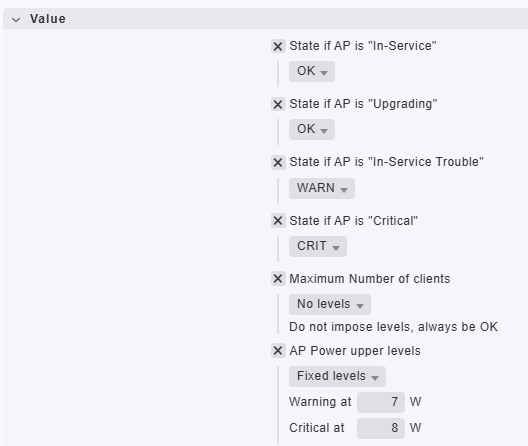
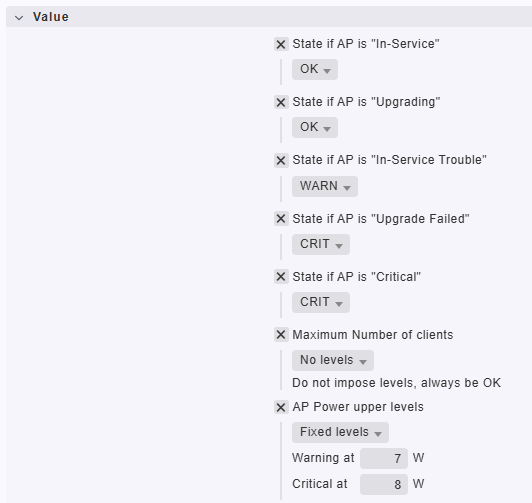
Update package netextreme_xiq_controller. See CHANGELOG for details.

diff --git a/netextreme_xiq_controller/source/cmk_addons/plugins/netextreme/agent_based/netextreme_xiq_controller_ap.py b/netextreme_xiq_controller/source/cmk_addons/plugins/netextreme/agent_based/netextreme_xiq_controller_ap.py
@@ -1,7 +1,7 @@
 #!/usr/bin/env python3
 #
 # Author : Alexander Vogel (alexander.vogel.2305@gmail.com)
-# Date   : 2025-11-28
+# Date   : 2026-04-16
 # License: GNU General Public License v2
 #
 # Check: ExtremeCloud IQ Controller - Access Points
@@ -10,23 +10,26 @@
 # <<<netextreme_xiq_controller_ap:sep(0)>>>
 # [
 #     {
-#         'name': 'Haus A 404', 
-#         'power': 0.0, 
-#         'uptime': 10300892, 
-#         'radio1_clients': 1, 
-#         'radio2_clients': 0, 
-#         'clients': 1, 
+#         'name': 'AP 044', 
+#         'power': 5.663, 
+#         'uptime': 15728467, 
+#         'clients': 23, 
+#         'ipAddress': '192.168.1.1', 
+#         'hardwareType': 'AP4000-WW', 
+#         'serialNumber': '0400Serial123', 
+#         'softwareVersion': '10.15.1.0-038R', 
+#         'macAddress': 'AA:BB:CC:DD:EE:FF', 
+#         'description': 'Secret Description', 
 #         'status': 'InService'
-#     }, 
-#     {...}
+#     },
+#     {...},
 # ]
 
 
 import ast
 import itertools
 
-from cmk.agent_based.v2 import AgentSection, check_levels, CheckPlugin, get_rate, get_value_store, Metric, Service, State, render, Result
-from datetime import datetime, timezone
+from cmk.agent_based.v2 import AgentSection, check_levels, CheckPlugin, Service, State, render, Result
 
 
 def parse_netextreme_xiq_controller_ap(string_table):
@@ -54,25 +57,45 @@ def check_netextreme_xiq_controller_ap(item, params, section):
         "InService": "In-Service",
         "InServiceTrouble": "In-Service Trouble",
         "Unknown": "Unknown",
+        "UpgradeFailed": "Upgrade Failed",
         "Upgrading": "Upgrading",
+    }
+    
+    map_inv_keys = {
+        "ipAddress": "IP Address", 
+        "hardwareType": "Model", 
+        "serialNumber": "Serial Number", 
+        "softwareVersion": "Version", 
+        "macAddress": "MAC Address", 
+        "description": "Description"
     }
 
     for ap in section:
 
         if f"{ap['name']}" != item:
             continue
+        
+        inv_data = ""
+        for key in map_inv_keys:
+            if ap.get(key, "") != "":
+                inv_data += f"\n{map_inv_keys[key]}: {ap[key]}"
+            
+        if len(inv_data) > 0:
+            inv_data = "AP Info:" + inv_data
 
-        # status: InServce, Upgrading, Unknown, critical
+        # status: InServce, Upgrading, UpgradeFailed, Unknown, critical
         if ap['status'] == 'InService':
             yield Result(state=State(params["state_ap_inservice"]), summary=f"Status: {map_status.get(ap['status'])}")
         
         else:
             if ap['status'] == 'Upgrading':
-                yield Result(state=State(params["state_ap_uprading"]), summary=f"Status: {map_status.get(ap['status'])}")
+                yield Result(state=State(params["state_ap_uprading"]), summary=f"Status: {map_status.get(ap['status'])}", details=inv_data)
+            elif ap['status'] == 'UpgradeFailed':
+                yield Result(state=State(params["state_ap_upgradefailed"]), summary=f"Status: {map_status.get(ap['status'])}", details=inv_data)
             elif ap['status'] == 'InServiceTrouble':
-                yield Result(state=State(params["state_ap_inservicetrouble"]), summary=f"Status: {map_status.get(ap['status'])}")
+                yield Result(state=State(params["state_ap_inservicetrouble"]), summary=f"Status: {map_status.get(ap['status'])}", details=inv_data)
             elif ap['status'] == 'critical':
-                yield Result(state=State(params["state_ap_critical"]), summary=f"Status: {map_status.get(ap['status'])}")
+                yield Result(state=State(params["state_ap_critical"]), summary=f"Status: {map_status.get(ap['status'])}", details=inv_data)
             else:
                 yield Result(state=State.UNKNOWN, summary=f"Status: {ap['status']}")
             return None
@@ -108,9 +131,10 @@ def check_netextreme_xiq_controller_ap(item, params, section):
                 metric_name="netextreme_xiq_controller_ap_power",
                 boundaries=(0, None)
             )
-        
-        
-
+            
+        # ap inv infos
+        yield Result(state=State.OK, notice=inv_data)
+ 
     return None
 
 
@@ -129,6 +153,7 @@ check_plugin_netextreme_xiq_controller_ap = CheckPlugin(
         "state_ap_inservice": 0,
         "state_ap_uprading": 0,
         "state_ap_inservicetrouble": 1,
+        "state_ap_upgradefailed": 2,
         "state_ap_critical": 2,
         "ap_clients_levels_upper": ('no_levels', None),
         "ap_power_levels_upper": ('no_levels', None),

diff --git a/netextreme_xiq_controller/source/cmk_addons/plugins/netextreme/rulesets/netextreme_xiq_controller_ap.py b/netextreme_xiq_controller/source/cmk_addons/plugins/netextreme/rulesets/netextreme_xiq_controller_ap.py
@@ -1,7 +1,7 @@
 #!/usr/bin/env python3
 #
 # Author : Alexander Vogel (alexander.vogel.2305@gmail.com)
-# Date   : 2025-11-28
+# Date   : 2026-04-16
 # License: GNU General Public License v2
 #
 # Ruleset: ExtremeCloud IQ Controller - APs
@@ -12,14 +12,11 @@ from cmk.rulesets.v1.form_specs import (
     DefaultValue,
     DictElement,
     Dictionary,
-    InputHint,
     Integer,
     LevelDirection,
     LevelsType,
     ServiceState,
     SimpleLevels,
-    migrate_to_integer_simple_levels,
-    validators,
 )
 from cmk.rulesets.v1.rule_specs import (
     CheckParameters,
@@ -54,6 +51,13 @@ def _parameter_form_netextreme_xiq_controller_ap():
                     prefill=DefaultValue(1)
                 )
             ),
+            'state_ap_upgradefailed': DictElement(
+                parameter_form=ServiceState(
+                    title=Title('State if AP is "Upgrade Failed"'),
+                    help_text=Help('Default monitoring state if the upgrade has failed.'),
+                    prefill=DefaultValue(2)
+                )
+            ),
             'state_ap_critical': DictElement(
                 parameter_form=ServiceState(
                     title=Title('State if AP is "Critical"'),
@@ -86,7 +90,7 @@ def _parameter_form_netextreme_xiq_controller_ap():
 
 rule_spec_netextreme_xiq_controller_ap = CheckParameters(
     name='netextreme_xiq_controller_ap',
-    title=Title('Extreme CloudIQ Controller APs'),
+    title=Title('ExtremeCloud IQ Controller APs'),
     topic=Topic.NETWORKING,
     condition = HostAndItemCondition(item_title=Title("AP")),
     parameter_form=_parameter_form_netextreme_xiq_controller_ap,

diff --git a/netextreme_xiq_controller/source/cmk_addons/plugins/netextreme/agent_based/netextreme_xiq_controller_wlan.py b/netextreme_xiq_controller/source/cmk_addons/plugins/netextreme/agent_based/netextreme_xiq_controller_wlan.py
@@ -1,16 +1,28 @@
 #!/usr/bin/env python3
 #
 # Author : Alexander Vogel (alexander.vogel.2305@gmail.com)
-# Date   : 2025-11-28
+# Date   : 2026-04-16
 # License: GNU General Public License v2
 #
 # Check: ExtremeCloud IQ Controller - WLANs
 
+# sample output:
+# <<<netextreme_xiq_controller_wlan:sep(0)>>>
+# [
+#     {
+#         'serviceName': 'Serivce_1', 
+#         'status': 'enabled',
+#         'ssid': 'wlan01', 
+#         'clients': 24
+#     },
+#     {...},
+# ]
+
+
 import ast
 import itertools
 
-from cmk.agent_based.v2 import AgentSection, check_levels, CheckPlugin, get_rate, get_value_store, Metric, Service, State, render, Result
-from datetime import datetime, timezone
+from cmk.agent_based.v2 import AgentSection, check_levels, CheckPlugin, Service, State, Result
 
 
 def parse_netextreme_xiq_controller_wlan(string_table):
@@ -34,9 +46,6 @@ def discover_netextreme_xiq_controller_wlan(section):
 def check_netextreme_xiq_controller_wlan(item, params, section):
 
     for service in section:
-        
-        inOctets_rate = 0
-        outOctets_rate = 0
 
         if f"{service['serviceName']}" != item:
             continue

diff --git a/netextreme_xiq_controller/source/cmk_addons/plugins/netextreme/rulesets/netextreme_xiq_controller_site.py b/netextreme_xiq_controller/source/cmk_addons/plugins/netextreme/rulesets/netextreme_xiq_controller_site.py
@@ -1,7 +1,7 @@
 #!/usr/bin/env python3
 #
 # Author : Alexander Vogel (alexander.vogel.2305@gmail.com)
-# Date   : 2025-11-28
+# Date   : 2026-04-16
 # License: GNU General Public License v2
 #
 # Ruleset: ExtremeCloud IQ Controller - WLANs
@@ -12,14 +12,10 @@ from cmk.rulesets.v1.form_specs import (
     DefaultValue,
     DictElement,
     Dictionary,
-    InputHint,
     Integer,
     LevelDirection,
     LevelsType,
-    ServiceState,
     SimpleLevels,
-    migrate_to_integer_simple_levels,
-    validators,
 )
 from cmk.rulesets.v1.rule_specs import (
     CheckParameters,
@@ -47,7 +43,7 @@ def _parameter_form_netextreme_xiq_controller_site():
 
 rule_spec_netextreme_xiq_controller_site = CheckParameters(
     name='netextreme_xiq_controller_site',
-    title=Title('Extreme CloudIQ Controller Site Clients'),
+    title=Title('ExtremeCloud IQ Controller Site Clients'),
     topic=Topic.NETWORKING,
     condition = HostAndItemCondition(item_title=Title("Site")),
     parameter_form=_parameter_form_netextreme_xiq_controller_site,

diff --git a/netextreme_xiq_controller/source/cmk_addons/plugins/netextreme/rulesets/netextreme_xiq_controller_wlan.py b/netextreme_xiq_controller/source/cmk_addons/plugins/netextreme/rulesets/netextreme_xiq_controller_wlan.py
@@ -1,7 +1,7 @@
 #!/usr/bin/env python3
 #
 # Author : Alexander Vogel (alexander.vogel.2305@gmail.com)
-# Date   : 2025-11-28
+# Date   : 2026-04-16
 # License: GNU General Public License v2
 #
 # Ruleset: ExtremeCloud IQ Controller - WLANs
@@ -12,14 +12,10 @@ from cmk.rulesets.v1.form_specs import (
     DefaultValue,
     DictElement,
     Dictionary,
-    InputHint,
     Integer,
     LevelDirection,
     LevelsType,
-    ServiceState,
     SimpleLevels,
-    migrate_to_integer_simple_levels,
-    validators,
 )
 from cmk.rulesets.v1.rule_specs import (
     CheckParameters,
@@ -47,7 +43,7 @@ def _parameter_form_netextreme_xiq_controller_wlan():
 
 rule_spec_netextreme_xiq_controller_wlan = CheckParameters(
     name='netextreme_xiq_controller_wlan',
-    title=Title('Extreme CloudIQ Controller WLAN Clients'),
+    title=Title('ExtremeCloud IQ Controller WLAN Clients'),
     topic=Topic.NETWORKING,
     condition = HostAndItemCondition(item_title=Title("WLAN")),
     parameter_form=_parameter_form_netextreme_xiq_controller_wlan,

diff --git a/netextreme_xiq_controller/source/cmk_addons/plugins/netextreme/agent_based/netextreme_xiq_controller_site.py b/netextreme_xiq_controller/source/cmk_addons/plugins/netextreme/agent_based/netextreme_xiq_controller_site.py
@@ -1,16 +1,26 @@
 #!/usr/bin/env python3
 #
 # Author : Alexander Vogel (alexander.vogel.2305@gmail.com)
-# Date   : 2025-11-28
+# Date   : 2026-04-16
 # License: GNU General Public License v2
 #
 # Check: ExtremeCloud IQ Controller - Sites
 
+# sample output:
+# <<<netextreme_xiq_controller_site:sep(0)>>>
+# [
+#     {
+#         'name': 'Site_1', 
+#         'clients': 56
+#     },
+#     {...},
+# ]
+
+
 import ast
 import itertools
 
-from cmk.agent_based.v2 import AgentSection, check_levels, CheckPlugin, get_rate, get_value_store, Metric, Service, State, render, Result
-from datetime import datetime, timezone
+from cmk.agent_based.v2 import AgentSection, check_levels, CheckPlugin, Service
 
 
 def parse_netextreme_xiq_controller_site(string_table):
